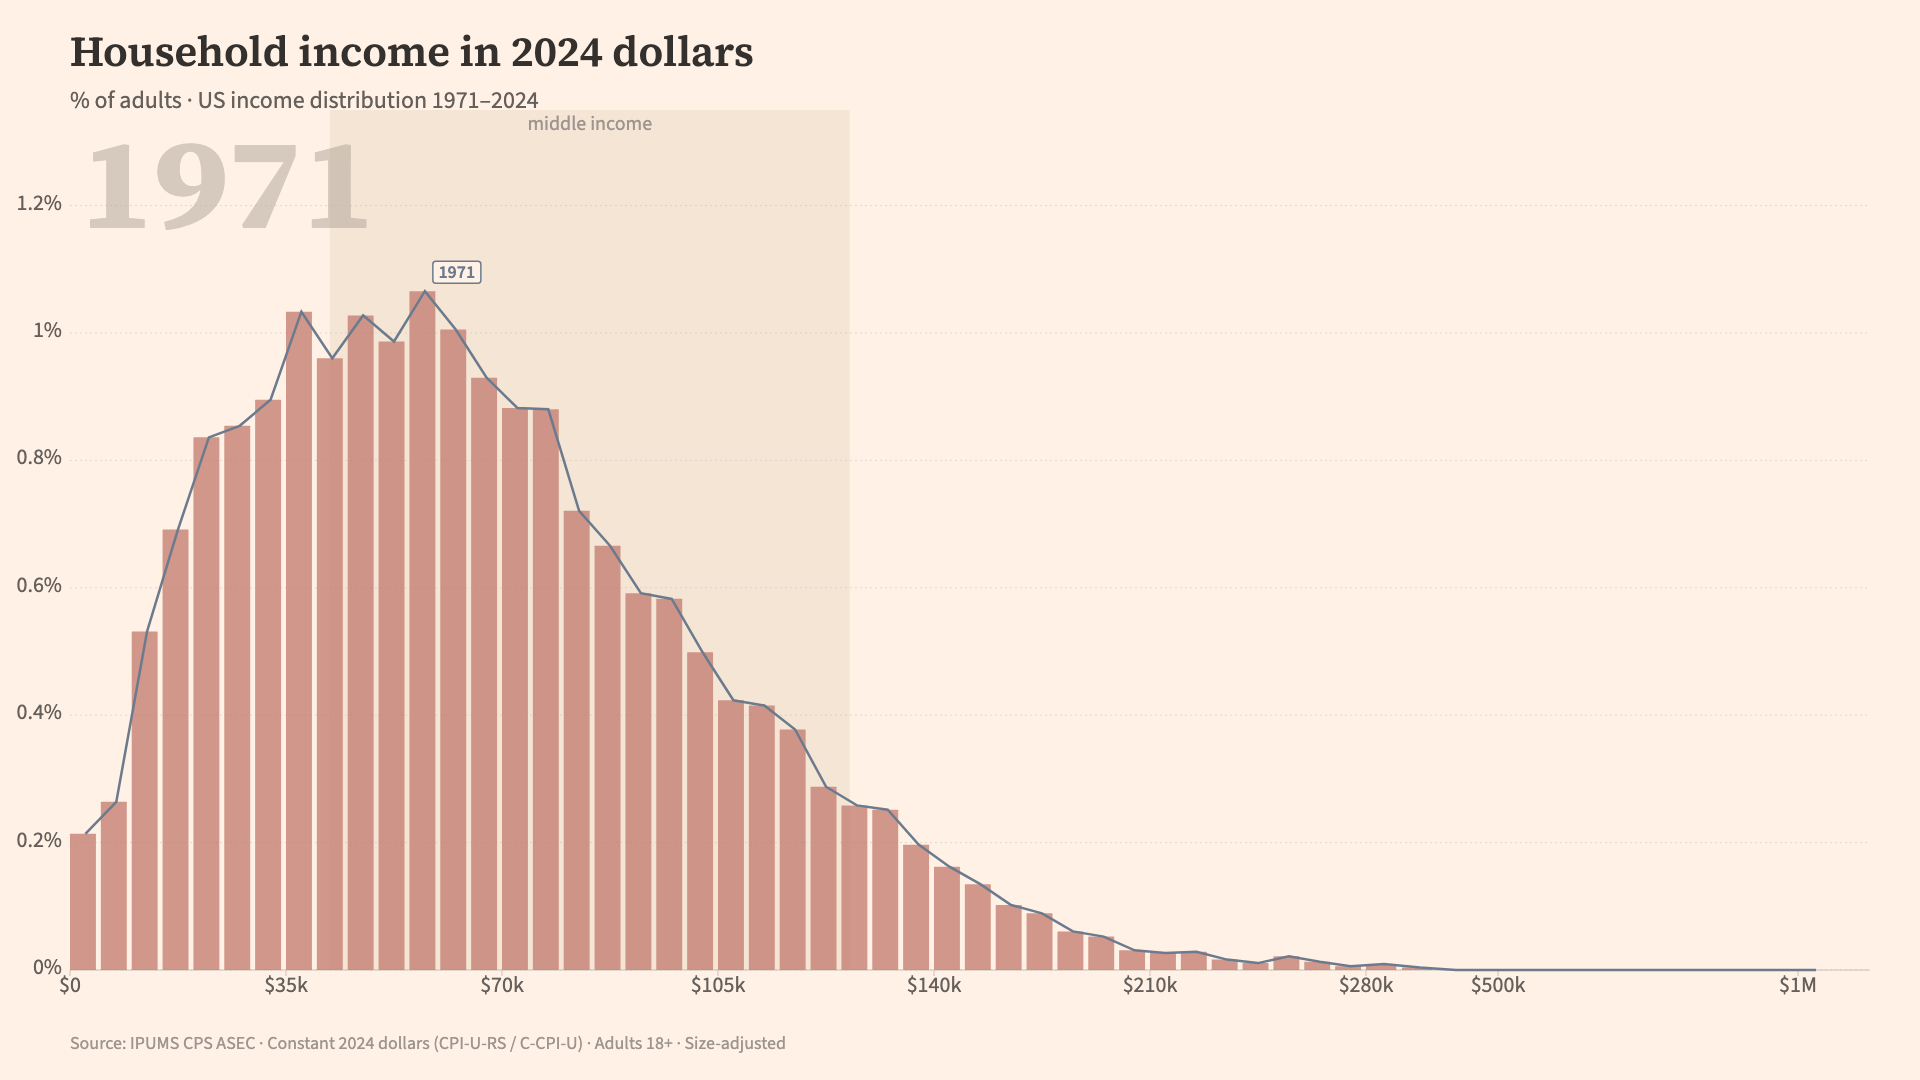
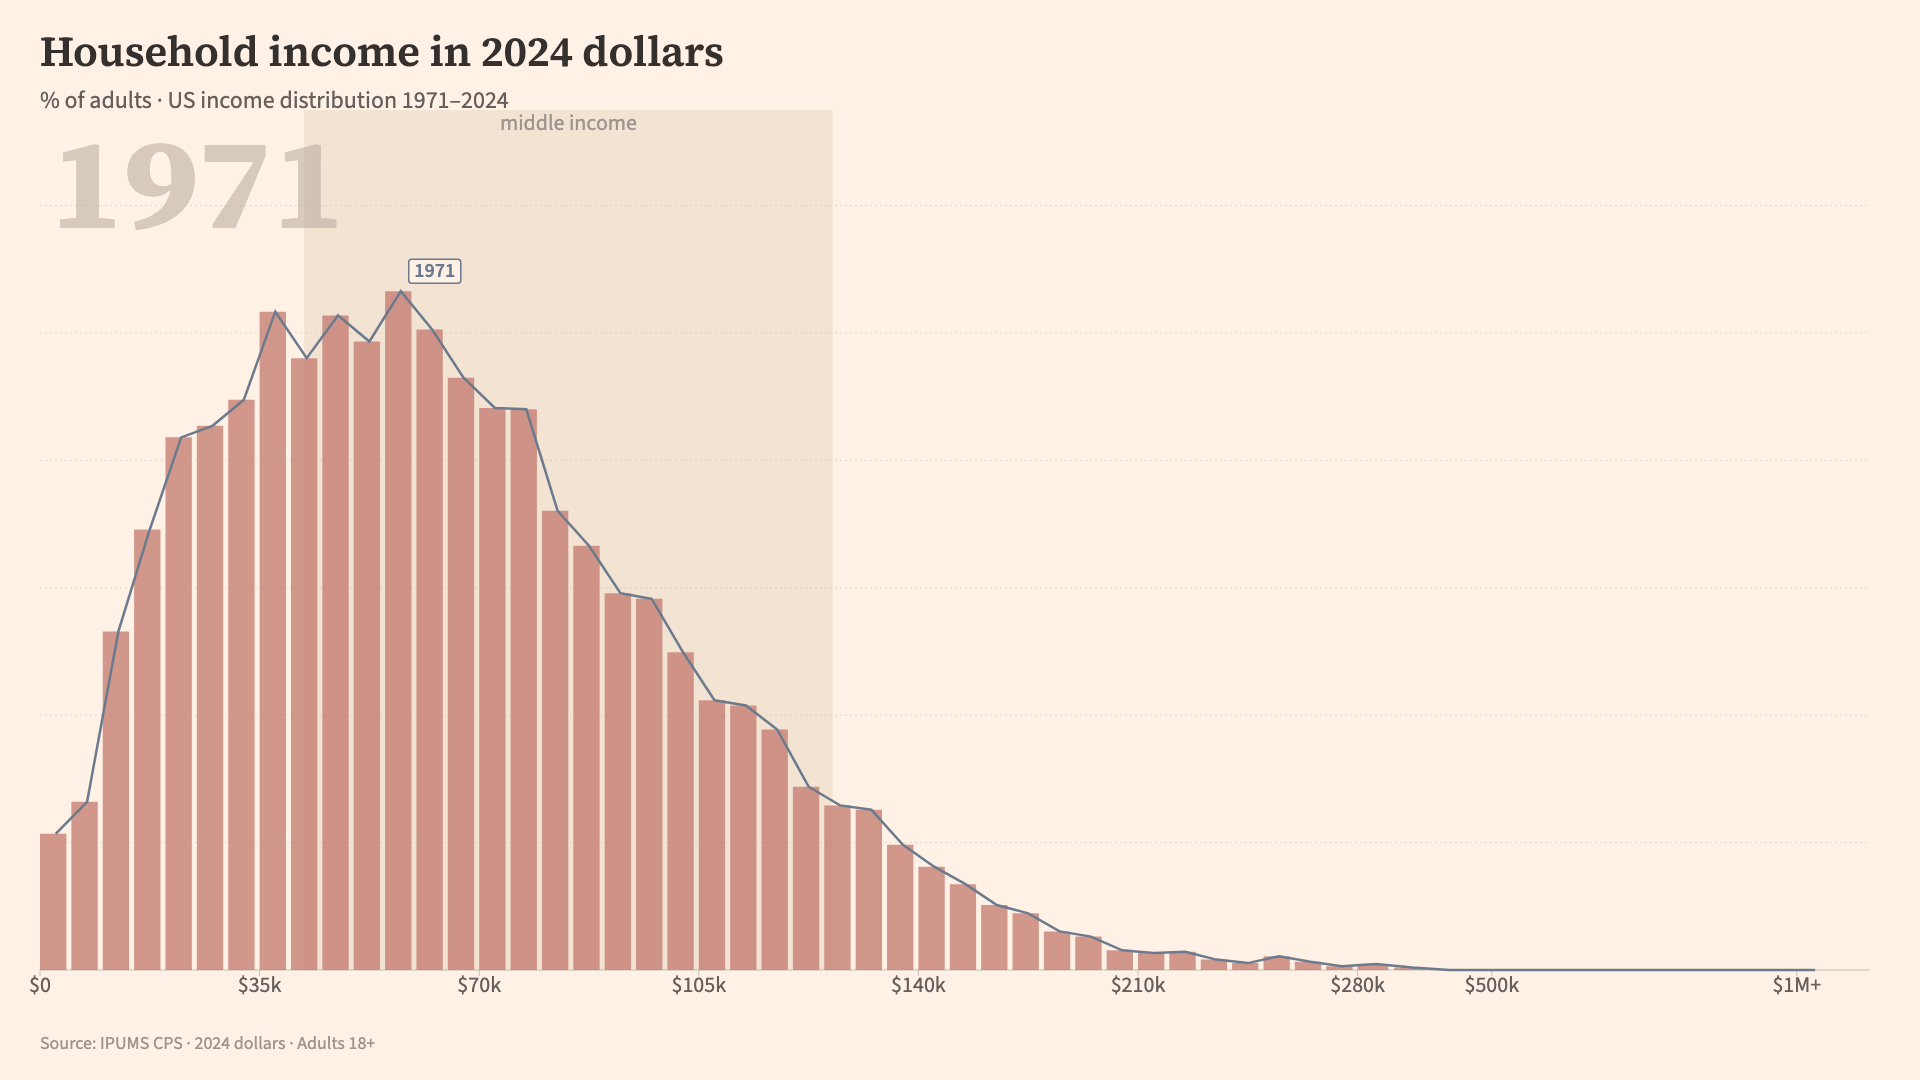
Typography and clarity polish
- Remove y-axis numeric labels (confusing density values for non-economists)
- Shorten source line to scannable length
- Increase middle-income band label to axis size, bump band opacity 25->30%
- Enlarge reference line badge (52x24, axisSize-2 text)
- Tighten left margin (70->40px) since y-axis labels removed
- Change $1M label to $1M+ to signal overflow

diff --git a/video/src/components/Axes.tsx b/video/src/components/Axes.tsx
@@ -16,7 +16,7 @@ export const Axes: React.FC<Props> = ({ dim, yMax, yTicks, opacity }) => {
 
   return (
     <g opacity={opacity}>
-      {/* Horizontal grid lines */}
+      {/* Horizontal grid lines (no numeric labels — relative heights tell the story) */}
       {yTicks.map((v) => (
         <line
           key={v}
@@ -61,23 +61,6 @@ export const Axes: React.FC<Props> = ({ dim, yMax, yTicks, opacity }) => {
             {label}
           </text>
         </g>
-      ))}
-
-      {/* Y-axis labels */}
-      {yTicks.map((v) => (
-        <text
-          key={v}
-          x={dim.margin.left - 8}
-          y={yPos(v) + 4}
-          textAnchor="end"
-          fill={color.textSecondary}
-          fontSize={dim.axisSize}
-          fontWeight={400}
-          fontFamily={SANS}
-          fontVariantNumeric="tabular-nums"
-        >
-          {v}%
-        </text>
       ))}
     </g>
   );

diff --git a/video/src/layouts/dimensions.ts b/video/src/layouts/dimensions.ts
@@ -7,7 +7,7 @@ export function getDimensions(
 ): ChartDimensions {
   switch (layout) {
     case "landscape": {
-      const margin = { top: 110, right: 50, bottom: 70, left: 70 };
+      const margin = { top: 110, right: 50, bottom: 70, left: 40 };
       return {
         width: videoW,
         height: videoH,
@@ -24,7 +24,7 @@ export function getDimensions(
       };
     }
     case "square": {
-      const margin = { top: 100, right: 40, bottom: 60, left: 60 };
+      const margin = { top: 100, right: 40, bottom: 60, left: 36 };
       return {
         width: videoW,
         height: videoH,
@@ -41,7 +41,7 @@ export function getDimensions(
       };
     }
     case "vertical": {
-      const margin = { top: 90, right: 40, bottom: 60, left: 60 };
+      const margin = { top: 90, right: 40, bottom: 60, left: 36 };
       const chartH = videoH * 0.55;
       return {
         width: videoW,

diff --git a/video/src/components/ReferenceLine.tsx b/video/src/components/ReferenceLine.tsx
@@ -53,8 +53,8 @@ export const ReferenceLine: React.FC<Props> = ({
   const badgeCenterX = lerp(edgeX, peakX, peakDrawn);
   const badgeCenterY = lerp(edgeY, peakY, peakDrawn);
 
-  const labelW = 48;
-  const labelH = 22;
+  const labelW = 52;
+  const labelH = 24;
   const badgeX = badgeCenterX + 8;
   const badgeY = badgeCenterY - labelH - 8;
 
@@ -99,7 +99,7 @@ export const ReferenceLine: React.FC<Props> = ({
             textAnchor="middle"
             dominantBaseline="middle"
             fill={color.refLine}
-            fontSize={dim.axisSize - 4}
+            fontSize={dim.axisSize - 2}
             fontFamily={SANS}
             fontWeight={600}
             style={{ fontVariantNumeric: "tabular-nums" }}

diff --git a/video/src/components/MiddleIncomeBand.tsx b/video/src/components/MiddleIncomeBand.tsx
@@ -36,7 +36,7 @@ export const MiddleIncomeBand: React.FC<Props> = ({
         y={dim.margin.top + 20}
         textAnchor="middle"
         fill={color.textTertiary}
-        fontSize={dim.axisSize - 2}
+        fontSize={dim.axisSize}
         fontWeight={400}
         fontFamily={SANS}
       >

diff --git a/video/src/components/SourceLine.tsx b/video/src/components/SourceLine.tsx
@@ -22,7 +22,6 @@ export const SourceLine: React.FC<Props> = ({ dim, layout, opacity }) => (
       opacity,
     }}
   >
-    Source: IPUMS CPS ASEC · Constant 2024 dollars (CPI-U-RS / C-CPI-U) · Adults
-    18+ · Size-adjusted
+    Source: IPUMS CPS · 2024 dollars · Adults 18+
   </div>
 );

diff --git a/video/src/lib/scales.ts b/video/src/lib/scales.ts
@@ -40,7 +40,7 @@ export const X_TICKS = [
   { v: 210_000, label: "$210k" },
   { v: 280_000, label: "$280k" },
   { v: 500_000, label: "$500k" },
-  { v: 1_000_000, label: "$1M" },
+  { v: 1_000_000, label: "$1M+" },
 ];
 
 // Compute max density across all years (bars + KDE) for y-axis scaling

diff --git a/video/src/lib/tokens.ts b/video/src/lib/tokens.ts
@@ -31,7 +31,7 @@ export const color = {
 // Opacities
 export const opacity = {
   bar: 0.75,
-  band: 0.25,
+  band: 0.30,
   watermark: 0.55,
 } as const;
 
